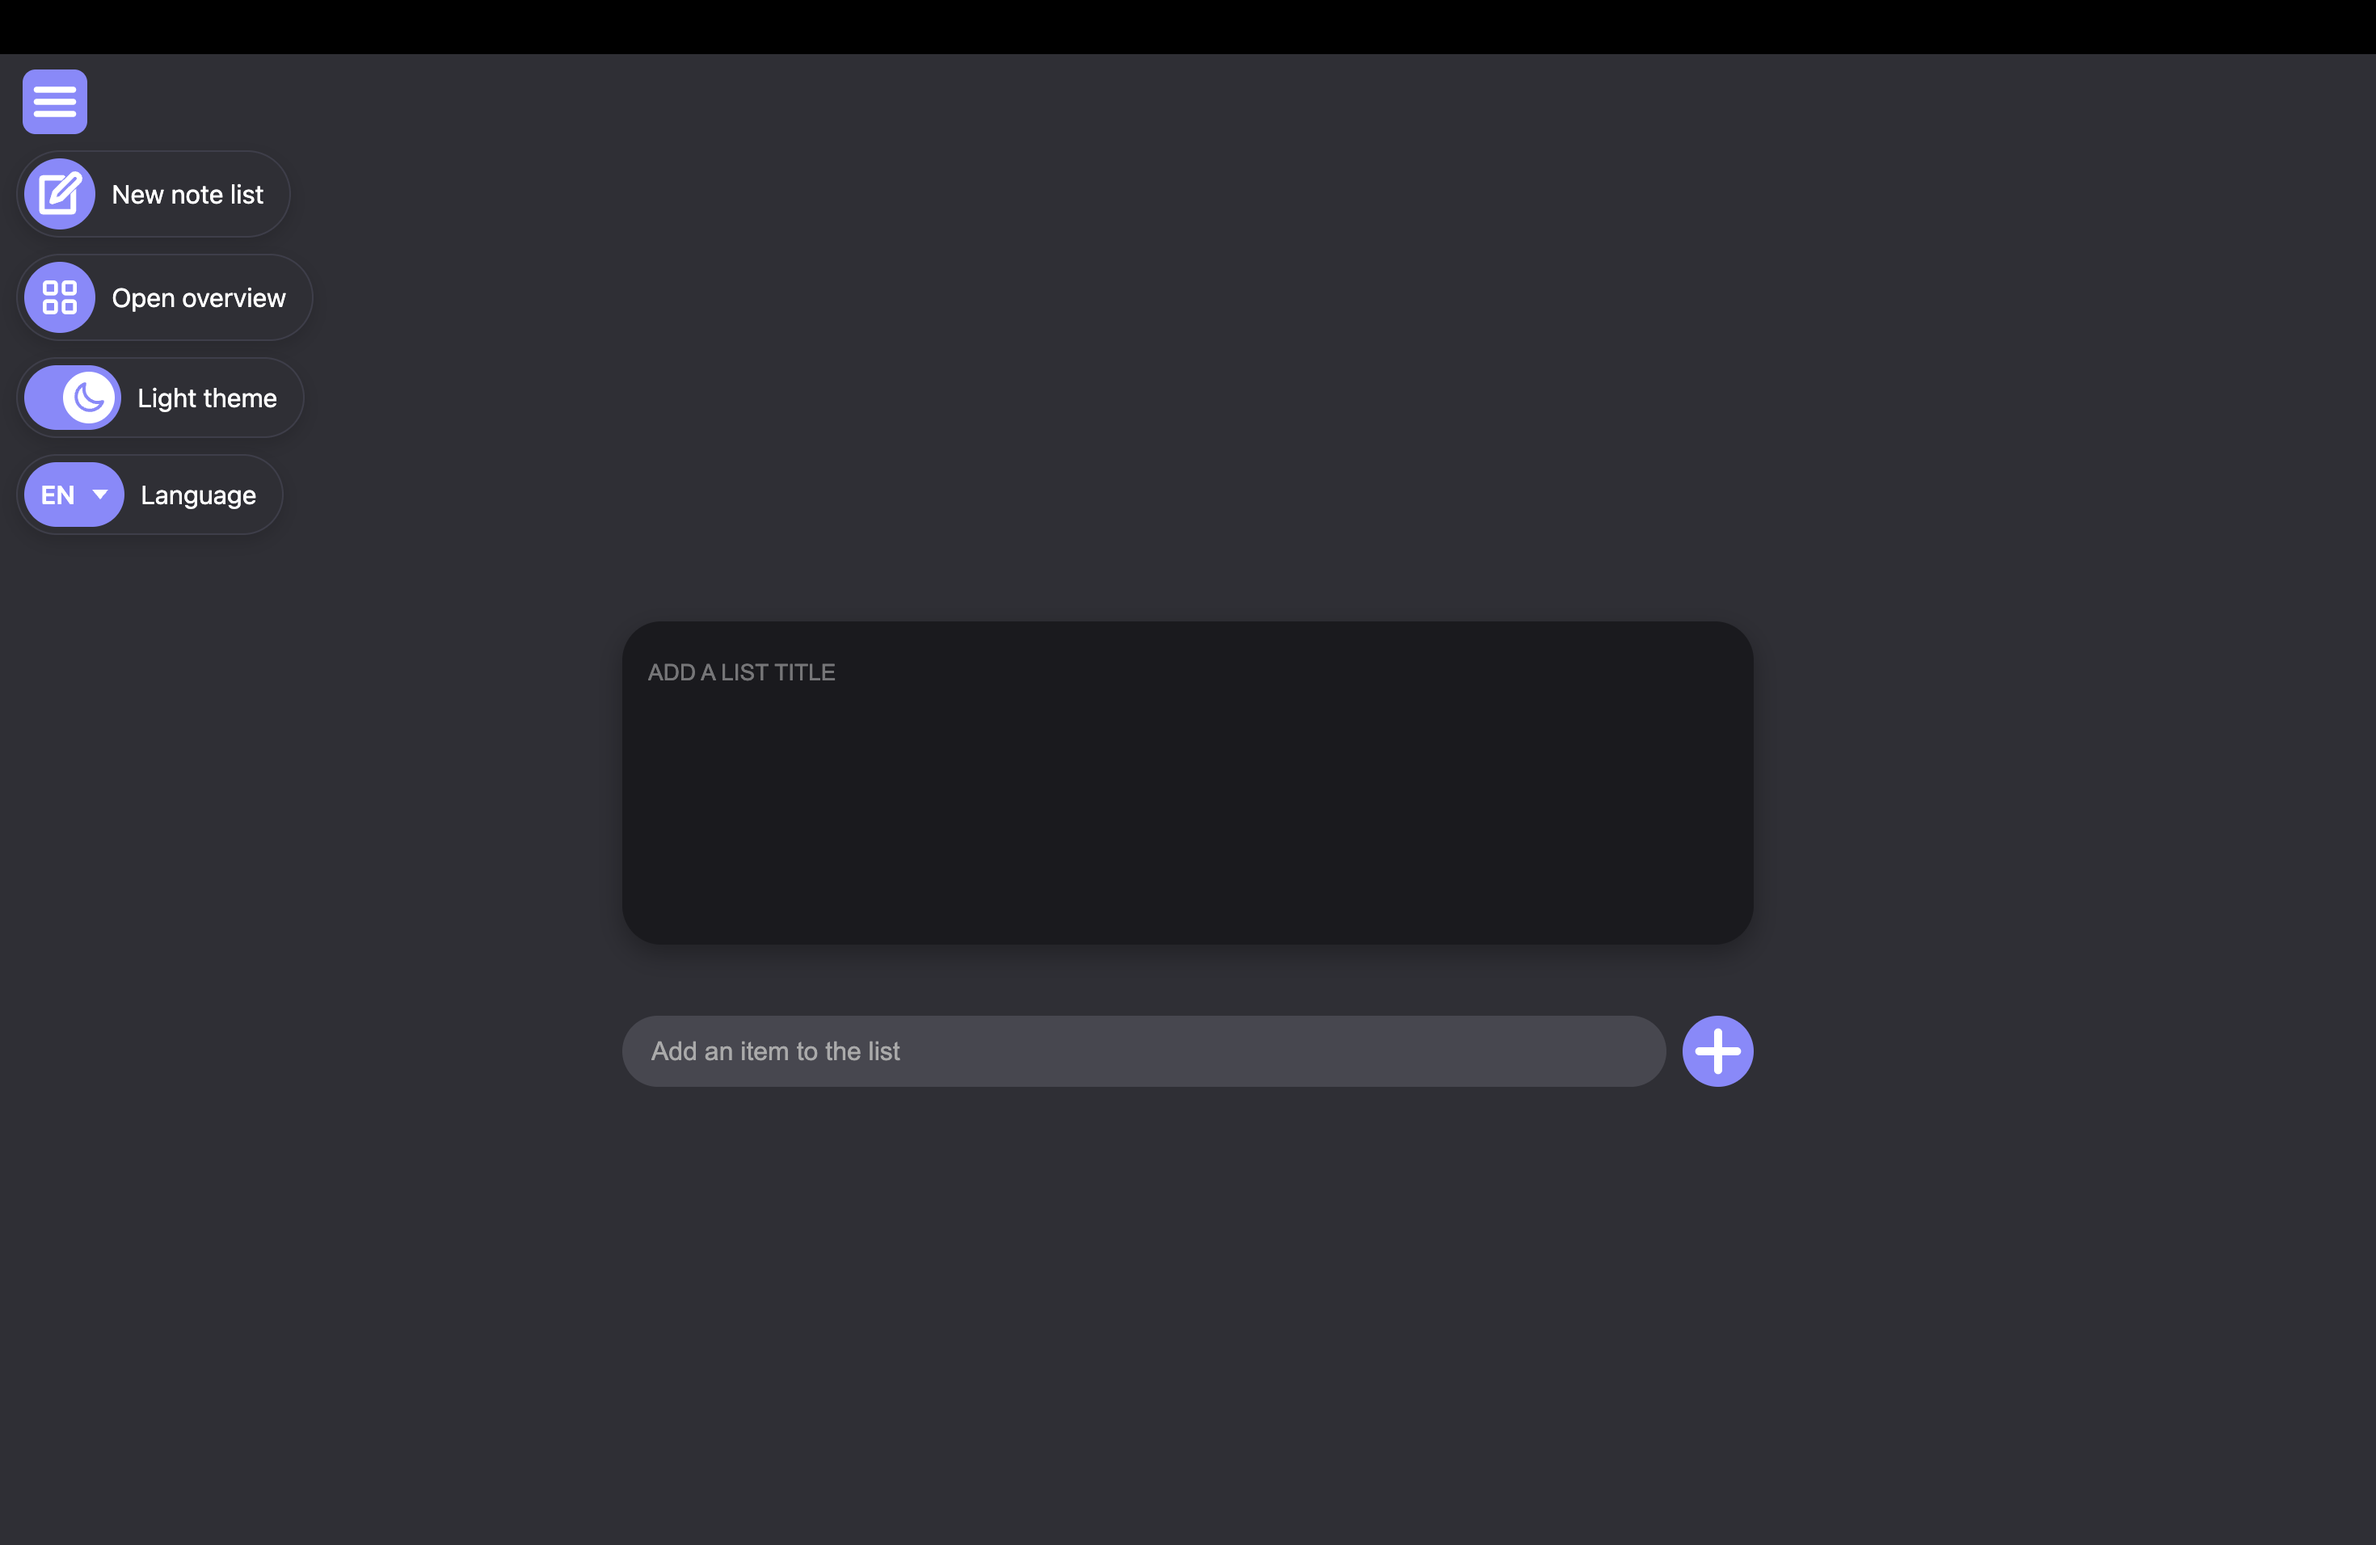
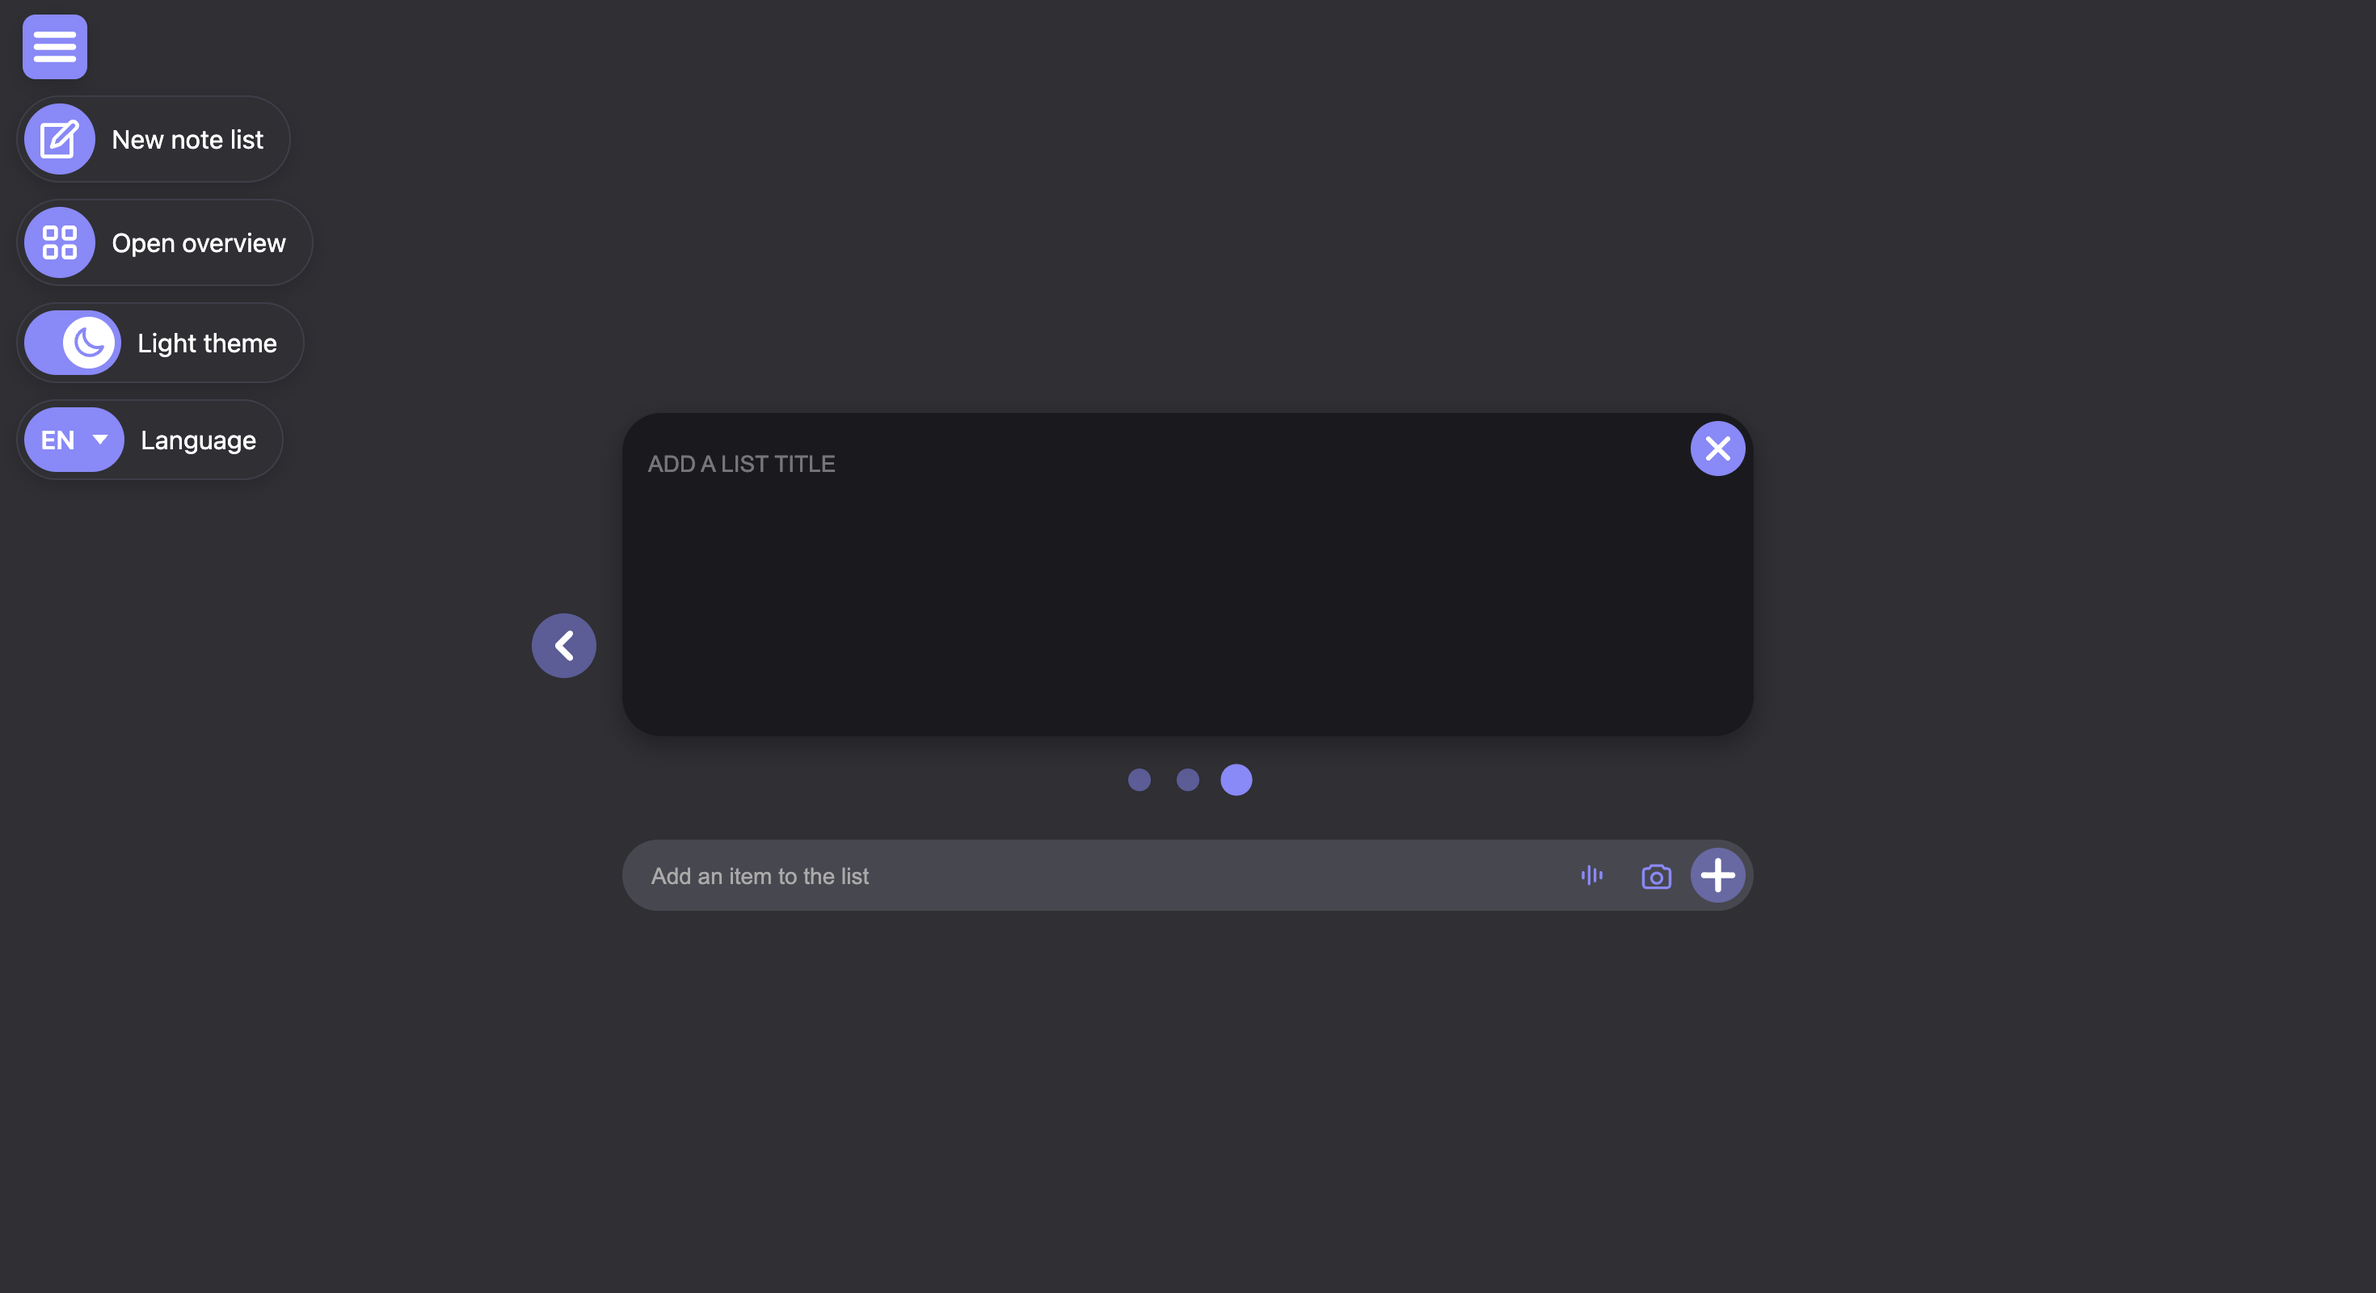
screenshot changed

diff --git a/components/Notelista.jsx b/components/Notelista.jsx
@@ -60,12 +60,12 @@ export default function Notelista() {
                 <strong className="italic">CSS</strong>, and{" "}
                 <strong className="italic">JavaScript</strong> that work
                 seamlessly across all devices and browsers, offering the
-                simplicity of a sticky note with the power of modern web
+                simplicity of a paper note with the power of modern web
                 technology.
             </p>
             <h2>The App's Value Proposition</h2>
             <p>
-                The app's "digital sticky note" concept resonates with users who
+                The app's "digital paper note" concept resonates with users who
                 want organization without overwhelming complexity - no account
                 creation, no complex features to navigate, just immediate
                 productivity.
@@ -105,7 +105,7 @@ export default function Notelista() {
             <h2>Impact</h2>
             <p>
                 The design philosophy centers on convenient simplicity,
-                accessibility, and privacy of the sticky note - users understand
+                accessibility, and privacy of a paper note - users understand
                 the interface instantly with zero learning curve, increasing
                 adoption.
             </p>
@@ -118,8 +118,7 @@ export default function Notelista() {
                 </h4>
                 <ul className="no-bullets two-col">
                     <li>
-                        ✅ <b>Digital Sustainability:</b> Replaces paper sticky
-                        notes with reusable digital notes.
+                        ✅ <b>Digital Sustainability:</b> Replaces paper notes with reusable digital notes.
                     </li>
                     <li>
                         ✅ <b>Universal Accessibility:</b> Offers simple access
